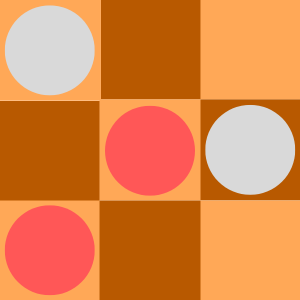
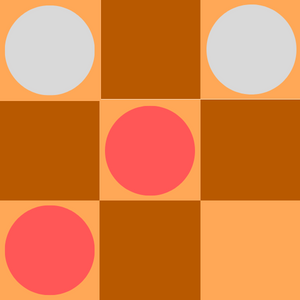
first checker test

Changed region(s): [[0.36, 0.0, 1.0, 0.69], [0.0, 0.33, 0.33, 0.36]]

diff --git a/express-app/my-app/src/pages/chekers/Checkers.js b/express-app/my-app/src/pages/chekers/Checkers.js
@@ -1,0 +1,14 @@
+import React from "react";
+import CheckersGridOfCells from "./components/Checkersgrid";
+
+export async function loader(){
+    return "";
+}
+
+const mockRows=[[{id:"0",imageSimbleCode:"whitePiece"},{id:"1",imageSimbleCode:"brow"},{id:"2",imageSimbleCode:"whitePiece"},{id:"3",imageSimbleCode:"brow"},{id:"4",imageSimbleCode:"whitePiece"},{id:"5",imageSimbleCode:"brow"},{id:"6",imageSimbleCode:"whitePiece"},{id:"7",imageSimbleCode:"brow"}],[{id:"8",imageSimbleCode:"brow"},{id:"9",imageSimbleCode:"whitePiece"},{id:"10",imageSimbleCode:"brow"},{id:"11",imageSimbleCode:"whitePiece"},{id:"12",imageSimbleCode:"brow"},{id:"13",imageSimbleCode:"whitePiece"},{id:"14",imageSimbleCode:"brow"},{id:"15",imageSimbleCode:"whitePiece"}],[{id:"16",imageSimbleCode:"whitePiece"},{id:"17",imageSimbleCode:"brow"},{id:"18",imageSimbleCode:"whitePiece"},{id:"19",imageSimbleCode:"brow"},{id:"20",imageSimbleCode:"whitePiece"},{id:"21",imageSimbleCode:"brow"},{id:"22",imageSimbleCode:"whitePiece"},{id:"23",imageSimbleCode:"brow"}],[{id:"24",imageSimbleCode:"brow"},{id:"25",imageSimbleCode:"wood"},{id:"26",imageSimbleCode:"brow"},{id:"27",imageSimbleCode:"wood"},{id:"28",imageSimbleCode:"brow"},{id:"29",imageSimbleCode:"wood"},{id:"30",imageSimbleCode:"brow"},{id:"31",imageSimbleCode:"wood"}],[{id:"32",imageSimbleCode:"wood"},{id:"33",imageSimbleCode:"brow"},{id:"34",imageSimbleCode:"wood"},{id:"35",imageSimbleCode:"brow"},{id:"36",imageSimbleCode:"wood"},{id:"37",imageSimbleCode:"brow"},{id:"38",imageSimbleCode:"wood"},{id:"39",imageSimbleCode:"brow"}],[{id:"40",imageSimbleCode:"brow"},{id:"41",imageSimbleCode:"redPiece"},{id:"42",imageSimbleCode:"brow"},{id:"43",imageSimbleCode:"redPiece"},{id:"44",imageSimbleCode:"brow"},{id:"45",imageSimbleCode:"redPiece"},{id:"46",imageSimbleCode:"brow"},{id:"47",imageSimbleCode:"redPiece"}],[{id:"48",imageSimbleCode:"redPiece"},{id:"49",imageSimbleCode:"brow"},{id:"50",imageSimbleCode:"redPiece"},{id:"51",imageSimbleCode:"brow"},{id:"52",imageSimbleCode:"redPiece"},{id:"53",imageSimbleCode:"brow"},{id:"54",imageSimbleCode:"redPiece"},{id:"55",imageSimbleCode:"brow"}],[{id:"56",imageSimbleCode:"brow"},{id:"57",imageSimbleCode:"redPiece"},{id:"58",imageSimbleCode:"brow"},{id:"59",imageSimbleCode:"redPiece"},{id:"60",imageSimbleCode:"brow"},{id:"61",imageSimbleCode:"redPiece"},{id:"62",imageSimbleCode:"brow"},{id:"63",imageSimbleCode:"redPiece"}]];
+
+function Checkers(){
+    return (<CheckersGridOfCells cellsRows={mockRows} handleClick={() => console.log("mock click")} />);
+}
+
+export default Checkers;

diff --git a/express-app/my-app/src/pages/chekers/components/Checkersgrid.js b/express-app/my-app/src/pages/chekers/components/Checkersgrid.js
@@ -1,0 +1,81 @@
+import React from "react";
+import brow from "./images/brow.png";
+import wood from "./images/wood.png";
+import whitePiece from "./images/white_piece.png";
+import redPiece from "./images/red_piece.png";
+
+function Cell({ id, imageCode, handleClick }) {
+    let style = {
+      width: "100%",
+      height: "100%",
+    };
+    let imageUrl;
+    switch (imageCode) {
+      case "wood":
+        imageUrl = wood;
+        break;
+  
+      case "brow":
+        imageUrl = brow;
+        break;
+
+      case "redPiece":
+        imageUrl = redPiece;
+        break;
+
+      case "whitePiece":
+        imageUrl = whitePiece;
+        break;
+    }
+  
+    return (
+      <div className="container p-0" style={style} id={id} onClick={handleClick}>
+        <img className="img-fluid" src={imageUrl} />
+      </div>
+    );
+  }
+
+function CheckersGridOfCells({ cellsRows, handleClick }) {
+const colStyle = {
+    maxHeight: "60px",
+    maxWidth: "60px",
+};
+
+const rowsComponents = cellsRows.map((row, indexRow) => {
+  
+    return <div key={indexRow} className="row col-12 p-0 m-0"> {row.map((cell, indexCell) => {
+    return (
+        <div
+        key={`${indexRow}:${indexCell}`}
+        className="col-4 p-0"
+        style={colStyle}
+        >
+        <Cell
+            key={cell.id}
+            id={cell.id}
+            imageCode={cell.imageSimbleCode}
+            handleClick={() => handleClick(cell.id)}
+        />
+        </div>
+    );
+    })}</div>
+
+    
+});
+const gridStyle = {
+    minHeight: "480px",
+    minWidth: "480px",
+    backgroundColor: "#aaaaaa",
+};
+
+return (
+    <div className="d-flex justify-content-center" style={gridStyle}>
+    <div className="" style={{ backgroundColor: "#ff8888" }}>
+      {rowsComponents}
+    </div>
+    </div>
+);
+}
+
+
+export default CheckersGridOfCells

diff --git a/express-app/my-app/src/App.js b/express-app/my-app/src/App.js
@@ -3,6 +3,7 @@ import Layout from "./pages/layout/Layout";
 import Home, {action as HomeAction} from "./pages/home/Home";
 import TicTacToe, {loader as TicTacToeLoader} from "./pages/tictactoe/Tictactoe";
 import Nick, {action as nickAction} from "./pages/nick/Nick";
+import Checkers from "./pages/chekers/Checkers";
 import Erro from "./pages/erro/Erro";
 import { RouterProvider, createBrowserRouter, createRoutesFromElements, Link, Route } from "react-router-dom";
 
@@ -12,6 +13,7 @@ const routers = createBrowserRouter(createRoutesFromElements(
     <Route path="/" element={<Home />} action={HomeAction} />
     <Route path="/nick/:code/:erro?" errorElement={<Erro />} action={nickAction} element={<Nick />} />
     <Route path="/tictactoe/:code/:username" errorElement={<Erro />} element={<TicTacToe />} loader={TicTacToeLoader} />
+    <Route path="/checkers" element={<Checkers />} action={HomeAction} />
     <Route path="*" element={<Erro/>} />
   </Route>
 ));
